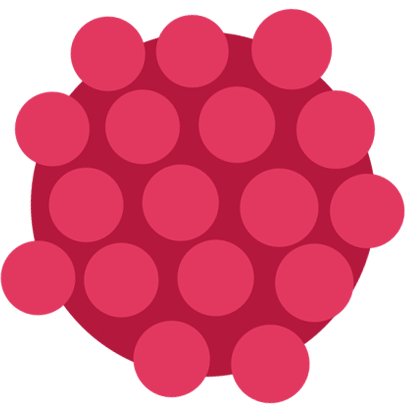
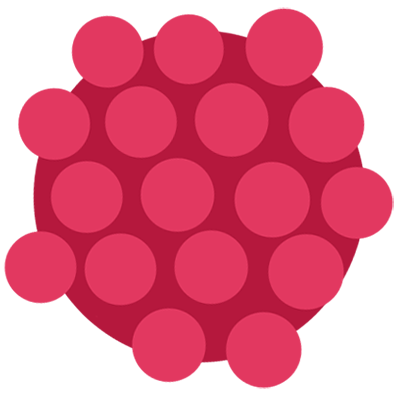
made new plant pop AND diversified starting plants w new elements

diff --git a/src/App.vue b/src/App.vue
@@ -12,8 +12,7 @@ import Footer from "@/components/Footer"
 export default {
   name: 'App',
   components: {
-    Inventory,
-    // Footer
+    Inventory
   },
   data(){
     return{
@@ -53,63 +52,14 @@ export default {
         midBranchSize : .8,
         flowerProb : 0.04,
         flower : "sunflower",
-        berryProb: 0,
-        berry : null,
-        leafProb: 0.02,
-        leaf : "leaf"
+        fruitProb: 0.2,
+        fruit : "apple",
+        leafProb: 0.21,
+        leaf : "basicleaf"
       },
       {
         id: 2,
-        initialSize : 0.15,
-        strokeWeightSensitivity : 0.32,
-        leftBranchSize : .42,
-        leftBranchAngle : Math.PI/4,
-        rightBranchSize : .65,
-        rightBranchAngle : Math.PI/7,
-        midBranchSize : .6,
-        flowerProb : 0.03,
-        flower : "sunflower",
-        berryProb : 0.02,
-        berry : "raspberry",
-        leafProb: 0.4,
-        leaf : "leaf"
-      },
-      {
-        id: 3,
         initialSize : 0.24,
-        strokeWeightSensitivity : 0.4,
-        leftBranchSize : .51,
-        leftBranchAngle : Math.PI/7,
-        rightBranchSize : .42,
-        rightBranchAngle : Math.PI/9,
-        midBranchSize : .8,
-        flowerProb : 0.06,
-        flower : null,
-        berryProb: 0,
-        berry : null,
-        leafProb: 0,
-        leaf : null
-
-      },
-      {
-        id: 4,
-        initialSize: 0.2,
-        strokeWeightSensitivity : 0.08,
-        leftBranchSize: .42,
-        leftBranchAngle: Math.PI / 4,
-        rightBranchSize: .65,
-        rightBranchAngle: Math.PI / 7,
-        midBranchSize: .6,
-        flowerProb: 0.2,
-        flower: null,
-        berryProb: 0.2,
-        berry: null,
-        leafProb: 0,
-        leaf : null
-      },
-      {
-        id: 5,
-        initialSize : 0.17,
         strokeWeightSensitivity : 0.02,
         leftBranchSize : .41,
         leftBranchAngle : Math.PI/2.5,
@@ -117,9 +67,89 @@ export default {
         rightBranchAngle : Math.PI/3.1,
         midBranchSize : .6,
         flowerProb : 0.2,
+        flower : null,
+        fruitProb : 0.34,
+        fruit : "raspberry",
+        leafProb: 0.4,
+        leaf : "trileaf"
+      },
+      {
+        id: 3,
+        initialSize : 0.24,
+        strokeWeightSensitivity : 0.42,
+        leftBranchSize : .51,
+        leftBranchAngle : Math.PI/9,
+        rightBranchSize : .42,
+        rightBranchAngle : Math.PI/5,
+        midBranchSize : .8,
+        flowerProb : 0.06,
+        flower : "corpse",
+        fruitProb: 0.17,
+        fruit : "orange",
+        leafProb: 0.4,
+        leaf : "fallleaf"
+      },
+      {
+        id: 4,
+        initialSize: 0.2,
+        strokeWeightSensitivity : 0.08,
+        leftBranchSize: .42,
+        leftBranchAngle: Math.PI / 4.5,
+        rightBranchSize: .65,
+        rightBranchAngle: Math.PI / 7.5,
+        midBranchSize: .6,
+        flowerProb: 0.2,
+        flower: null,
+        fruitProb: 0.2,
+        fruit: "pear",
+        leafProb: 0.3,
+        leaf : "basicleaf"
+      },
+      {
+        id: 5,
+        initialSize : 0.34,
+        strokeWeightSensitivity : 0.4,
+        leftBranchSize : .7,
+        leftBranchAngle : Math.PI/3,
+        rightBranchSize : .6,
+        rightBranchAngle : Math.PI/4,
+        midBranchSize : .7,
+        flowerProb : 0.09,
         flower : "sunflower",
-        berryProb : 0.2,
-        berry : null,
+        fruitProb: 0.12,
+        fruit : "blueberry",
+        leafProb: 0.32,
+        leaf : "basicleaf"
+      },
+      {
+        id: 6,
+        initialSize : 0.17,
+        strokeWeightSensitivity : 0.19,
+        leftBranchSize : .41,
+        leftBranchAngle : Math.PI/2.5,
+        rightBranchSize : .05,
+        rightBranchAngle : Math.PI/3.1,
+        midBranchSize : .6,
+        flowerProb : 0.1,
+        flower : "sunflower",
+        fruitProb : 0.12,
+        fruit : "strawberry",
+        leafProb: 0.4,
+        leaf : null
+      },
+      {
+        id: 7,
+        initialSize : 0.34,
+        strokeWeightSensitivity : 0.23,
+        leftBranchSize : .41,
+        leftBranchAngle : Math.PI/2.5,
+        rightBranchSize : .05,
+        rightBranchAngle : Math.PI/3.1,
+        midBranchSize : .6,
+        flowerProb : 0.5,
+        flower : "cherryblossom",
+        fruitProb : 0.2,
+        fruit : null,
         leafProb: 0.4,
         leaf : null
       }

diff --git a/src/components/Inventory.vue b/src/components/Inventory.vue
@@ -24,7 +24,7 @@
     </div>
   </div>
   <div class="big-plant" v-if="bigPlant" @click="bigPlant = null">
-    <PlantRenderer :plant="bigPlant" size="400"/>
+    <PlantRenderer :plant="bigPlant" :size=400 />
   </div>
 </template>
 
@@ -86,8 +86,8 @@ export default {
           midBranchSize: this.randomInRange(plant1.midBranchSize, plant2.midBranchSize),
           flowerProb: this.randomInRange(plant1.flowerProb, plant2.flowerProb),
           flower: this.randomChoice(plant1.flower, plant2.flower),
-          berryProb: this.randomInRange(plant1.berryProb, plant2.berryProb),
-          berry: this.randomChoice(plant1.berry, plant2.berry),
+          fruitProb: this.randomInRange(plant1.fruitProb, plant2.fruitProb),
+          fruit: this.randomChoice(plant1.fruit, plant2.fruit),
           leafProb: this.randomInRange(plant1.leafProb, plant2.leafProb),
           leaf: this.randomChoice(plant1.leaf, plant2.leaf)
         }
@@ -132,6 +132,10 @@ export default {
   border-bottom: 1px solid #186519;
 }
 
+span {
+  color: white;
+}
+
 .inventory-grid{
   padding: 50px;
 }
@@ -142,7 +146,13 @@ export default {
   display: inline-block;
   /*background: rgb(120, 223, 225);*/
   background-image: linear-gradient(#85c3fc, rgb(157, 250, 252));
+  animation: plant 0.3s linear 1;
 }
+
+@keyframes plant{
+  50%  {transform: scale(1.2);}
+}
+
 
 .plant.selected {
   outline: 2px solid #fffdc9;
